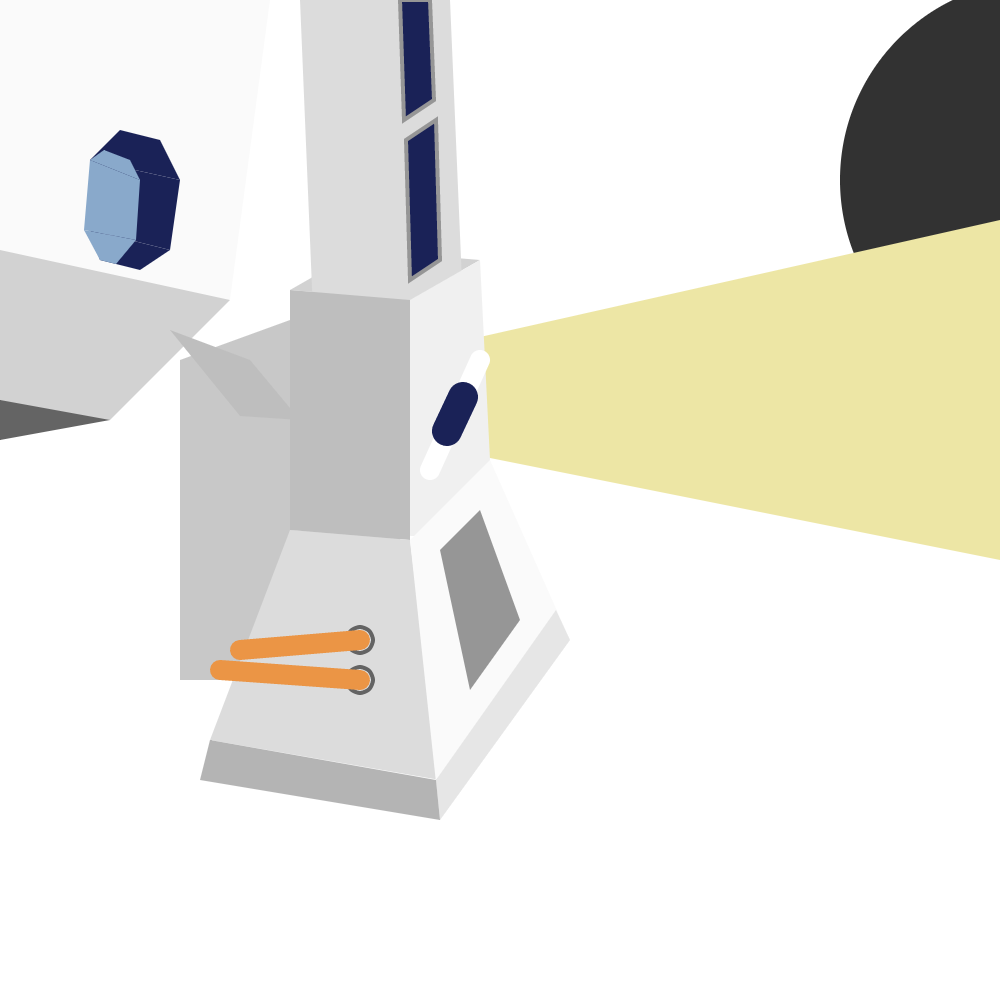
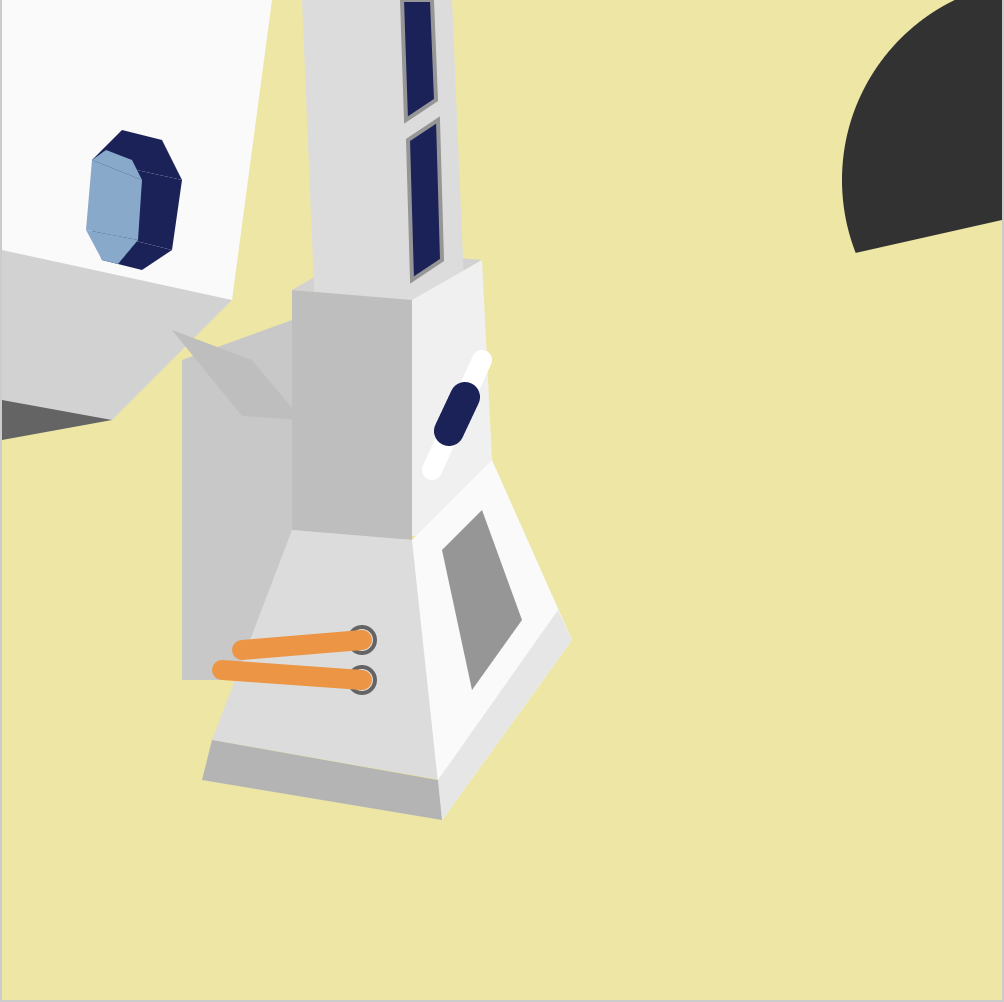
fixed background in 2-2 and added 2-1 to complete image

diff --git a/index.html b/index.html
@@ -35,7 +35,7 @@
       <a href="https://github.com/cha-art-dev/collaboration-001/blob/master/image-2-0.html"><img src="image-2-0.png"/></a>
       <a href="https://github.com/cha-art-dev/collaboration-001/blob/master/image-0-1.html"><img src="image-0-1.png"/></a>
       <a href="https://github.com/cha-art-dev/collaboration-001/blob/master/image-1-1.html"><img src="image-1-1.png"/></a>
-      <div class="blank"></div>
+      <a href="https://github.com/cha-art-dev/collaboration-001/blob/master/image-2-1.html"><img src="image-2-1.png"/></a>
       <a href="https://github.com/cha-art-dev/collaboration-001/blob/master/image-0-2.html"><img src="image-0-2.png"/></a>
       <a href="https://github.com/cha-art-dev/collaboration-001/blob/master/image-1-2.html"><img src="image-1-2.png"/></a>
       <a href="https://github.com/cha-art-dev/collaboration-001/blob/master/image-2-2.html"><img src="image-2-2.png"/></a>
